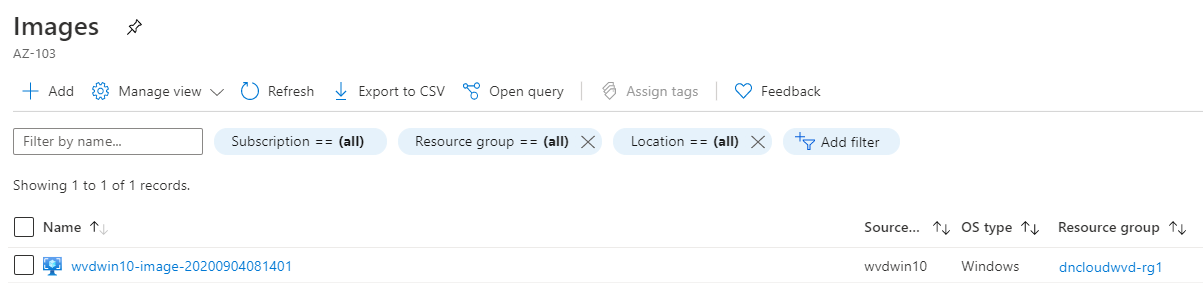
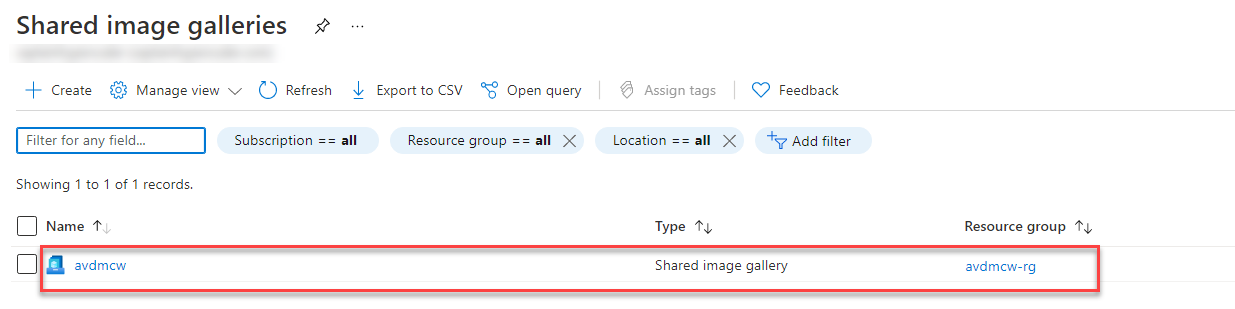
31 August 2021 test-fix updates

diff --git a/Hands-on lab/HOL step-by-step - Implementing Azure Virtual Desktop in the enterprise.md b/Hands-on lab/HOL step-by-step - Implementing Azure Virtual Desktop in the enterprise.md
@@ -803,7 +803,7 @@ In this task we will create directories for each of the FSLogix profile types an
 
     -    **MSIX**
 
-    ![This image shows that after adding these folders, file explorer for that shared drive will look like this.](images/newfolders.png)
+    ![This image shows that after adding these folders, file explorer for that shared drive will look like this.](images/newfolders.png "New folders in drive z")
 
 3.  Right-click on the **Profiles** directory and select **Properties**.
 
@@ -811,17 +811,17 @@ In this task we will create directories for each of the FSLogix profile types an
 
 5.  Select **Disable inheritance** and select **Remove all inherited permissions from this object**.
 
-    ![This image is the screen that you would remove the inherited permissions.](images/removeinheritedperm.png)
+    ![This image is the screen that you would remove the inherited permissions.](images/removeinheritedperm.png "Remove inherited permissions")
 
 6.  Select **Add** and add **AZF FSLogix Elevated Contributor**. Grant **Full Control** and check **Only apply these permissions to objects and/or containers within this container**. Select **OK**.
 
-    ![This image shows the selections that should be complete before selecting ok.](images/addfullcontrol.png)
+    ![This image shows the selections that should be complete before selecting ok.](images/addfullcontrol.png "Set full control for FSLogix Elevated Contributor")
 
 7.  Select **Add** and add **Creator owner**. Grant **Full Control** to **Only apply these permissions to objects and/or containers within this container**. Select **OK**.
 
-    ![This image shows how the add the creator owner object.](images/addcreatorowner.png)
+    ![This image shows how the add the creator owner object.](images/addcreatorowner.png "Add Creator owner principal")
 
-    ![This image shows how to set the permissions for full control to the creator owner.](images/addfullcontrolcreator.png)
+    ![This image shows how to set the permissions for full control to the creator owner.](images/addfullcontrolcreator.png "Grant full control to creator owner")
 
 8.  Select **Add** and add **AVD Users**. Grant the following special permissions to **Only apply these permissions to objects and/or containers within this container**. Select **OK**.
 
@@ -833,11 +833,11 @@ In this task we will create directories for each of the FSLogix profile types an
 
     -   Create folders / append data
 
-    ![This image shows the special permissions for AVD user.](images/userfolderpermissions.png)
+    ![This image shows the special permissions for AVD user.](images/userfolderpermissions.png "AVD users folder permissions")
 
 9.  Select **OK** on both property windows to apply your changes.
 
-    ![This image shows the list of permission objects that were just created.](images/permissionscomplete.png)
+    ![This image shows the list of permission objects that were just created.](images/permissionscomplete.png "Permissions for Profiles and ODFC folder")
 
 10. Repeat steps 3-9 for the **ODFC** directory.
 
@@ -847,17 +847,19 @@ In this task we will create directories for each of the FSLogix profile types an
 
 13. Select **Disable inheritance** and select **Remove all inherited permissions from this object**.
 
-    ![This image is the screen that you would remove the inherited permissions.](images/removeinheritedperm.png)
+    ![This image is the screen that you would remove the inherited permissions.](images/removeinheritedperm.png "Remove inherited permissions")
 
 14. Select **Add** and add **AZF FSLogix Elevated Contributor**. Grant **Full Control** to **Only apply these permissions to objects and/or containers within this container**. Select **OK**.
 
-    ![This image shows the selections that should be complete before selecting ok.](images/addfullcontrol.png)
+    ![This image shows the selections that should be complete before selecting ok.](images/addfullcontrol.png "Add FSLogix Elevated Contributor full control")
 
 15. Select **Add** and add **AVD Users**. Grant **Read & execute** to **Only apply these permissions to objects and/or containers within this container**. Select **OK**.
 
-    ![This image shows the custom permissions for the AVD users on the MSIX folder.](images/msixavdusers.png)
+    ![This image shows the custom permissions for the AVD users on the MSIX folder.](images/msixavdusers.png "Add AVD users permissions")
 
 16. Confirm your permissions match the screenshots below.
+
+    ![This image shows the list of permission objects that were just created for the MSIX folder.](images/msixpermissions.png "Permissions for MSIX folder")
 
 17. Select **OK** on both property windows to apply your changes.
 
@@ -886,14 +888,14 @@ For more information on how to setup a Bastion host in Azure|https://docs.micros
 
 2.  On the Azure portal home page, select **Create a resource**.
 
-3.  On the New page, search for **Microsoft Windows 10**. Select **Windows 10 Enterprise multi-session, Version 1909** and **Create**.
+3.  On the New page, search for **Microsoft Windows 10**. Select **Windows 10 Enterprise multi-session, Version 1909** or higher and **Create**.
 
 
     ![This image shows the window will display the creation of a New Microsoft Windows 10 VM using software plan Windows 10 Enterprise multi-session, Version 1909.](images/windows10VM.png "New Microsoft Windows 10 VM using software plan Windows 10 Enterprise multi-session, Version 1909")
 
     >**Note**: In this exercise we are selecting a base Windows 10 image to start with and installing Office 365 ProPlus using a custom deployment script. We are also using the latest available release of Windows 10 Enterprise multi-session, but you can choose the version based on your requirements.
 
-4.  On the Create a virtual machine page, fill in the required fields and create the VM by selecting **Review + create**.
+4.  On the Create a virtual machine page, fill in the required fields shown below. 
 
     ![This image shows what your configuration should be for the virtual machine image.](images/win10vmcreate.png "Create virtual machine")
 
@@ -903,13 +905,17 @@ For more information on how to setup a Bastion host in Azure|https://docs.micros
 
     ![This image shows that, in the "Create a virtual machine" page within the Azure portal for the Windows 10 VM, allow port 3389 as an inbound port.](images/windows10VMcreate.png "The 'Create a virtual machine' page within the Azure portal for the Windows 10 VM")
 
-5.  Once the VM is successfully deployed, go to the resource, and connect using RDP. Sign in using the credentials you supplied when creating the VM.
+5.  Select the checkbox to confirm eligible Windows 10 licensing and create the VM by selecting **Review + create**.
 
-    ![This image shows the select connect in the Windows 10 VM overview to RDP to the vm.](images/connectwin10vm.png)
+    ![This image shows the Windows 10 licensing confirmation and the selection to Review and create.](images/windows10licensing.png "Confirm Windows 10 licensing")
 
-6.  Download the RDP file and open the RDP file to connect.
+6.  Once the VM is successfully deployed, go to the resource, and connect using RDP. Sign in using the credentials you supplied when creating the VM.
 
-    ![This image shows the download RDP button and the file that is downloaded to connect to the vm.](images/connectrdp.png)
+    ![This image shows the select connect in the Windows 10 VM overview to RDP to the vm.](images/connectwin10vm.png "Connect to Windows 10 VM")
+
+7.  Download the RDP file and open the RDP file to connect.
+
+    ![This image shows the download RDP button and the file that is downloaded to connect to the vm.](images/connectrdp.png "Download and run RDP file")
 
 ### Task 2: Run Windows Update
 
@@ -920,6 +926,8 @@ Despite the Azure support teams best efforts, the Marketplace images are not alw
     ![This image shows that, on the new Windows 10 VM image, go to settings window and select update and security.](images/w10VMSettings.png "The settings window within the Windows 10 VM")
 
 2.  Install all missing updates, rebooting as necessary.
+
+    >**Note**: After initial updates found during startup have been installed and you have rebooted the VM, check for updates again before proceeding.  There may be additional updates that need to be installed.
 
 3.  Once the VM is fully patched, the Windows Update Settings page should resemble the following screenshot.
 
@@ -1017,7 +1025,7 @@ The UI form offers the following actions:
 6.  Navigate to \"C:\Users\\(loginaccount)\Documents\Customizations".
 
     ```
-    cd C:\Users\(LoginAccount)\Documents\Customizations\Customizations
+    cd C:\Users\(LoginAccount)\Documents\Customizations\Prepare-WVDImage
     ```
 
 7.  Run the following command to allow for script execution:
@@ -1139,15 +1147,15 @@ The system will automatically shut down and disconnect your RDP session.
 
     ![This image shows what is displayed on the Create Image blade in Azure.](images/w10VMImage.png "Create Image blade in Azure")
 
-7.  Once complete, type **images** in the **Search resources field** at the top of the page. Select **Images** from the list.
+7.  Once complete, type **shared image** in the **Search resources field** at the top of the page. Select **Shared image galleries** from the list.
 
-8.  On the Images blade, locate your image and **Select** the name.
+8.  On the Shared image galleries blade, locate your image and **Select** the name.
 
-    ![When you search on images, the images icon is the one that you will need to select as shown.](images/findimage.png)
+    ![When you search on images, the images icon is the one that you will need to select as shown.](images/findimage.png "Go to Shared image gallery")
 
 9.  On the Overview blade for your image, make note of the **Name** field and **Resource group** field. These attributes are needed when you provision your host pools.
 
-    ![This image shows the information that you need to note for the name and resource group.](images/newimage.png)
+    ![This image shows the information that you need to note for the name and resource group.](images/newimage.png "Windows 10 image that was created")
 
 ### Task 6: Provision a Host Pool with a custom image
 
@@ -1155,7 +1163,7 @@ The system will automatically shut down and disconnect your RDP session.
 
 2.  When you get to step 5 to configure **Virtual machine settings**, select **Browse all images and disks** and then select the tab option for **My Items** to select the image that was created.
 
-    ![This image shows where you will find your custom image to add to the host pool.](images/hostpoolcustom.png)
+    ![This image shows where you will find your custom image to add to the host pool.](images/hostpoolcustom.png "Create a host pool and add custom image")
 
 
 ## Exercise 5: Create a host pool for personal desktops
